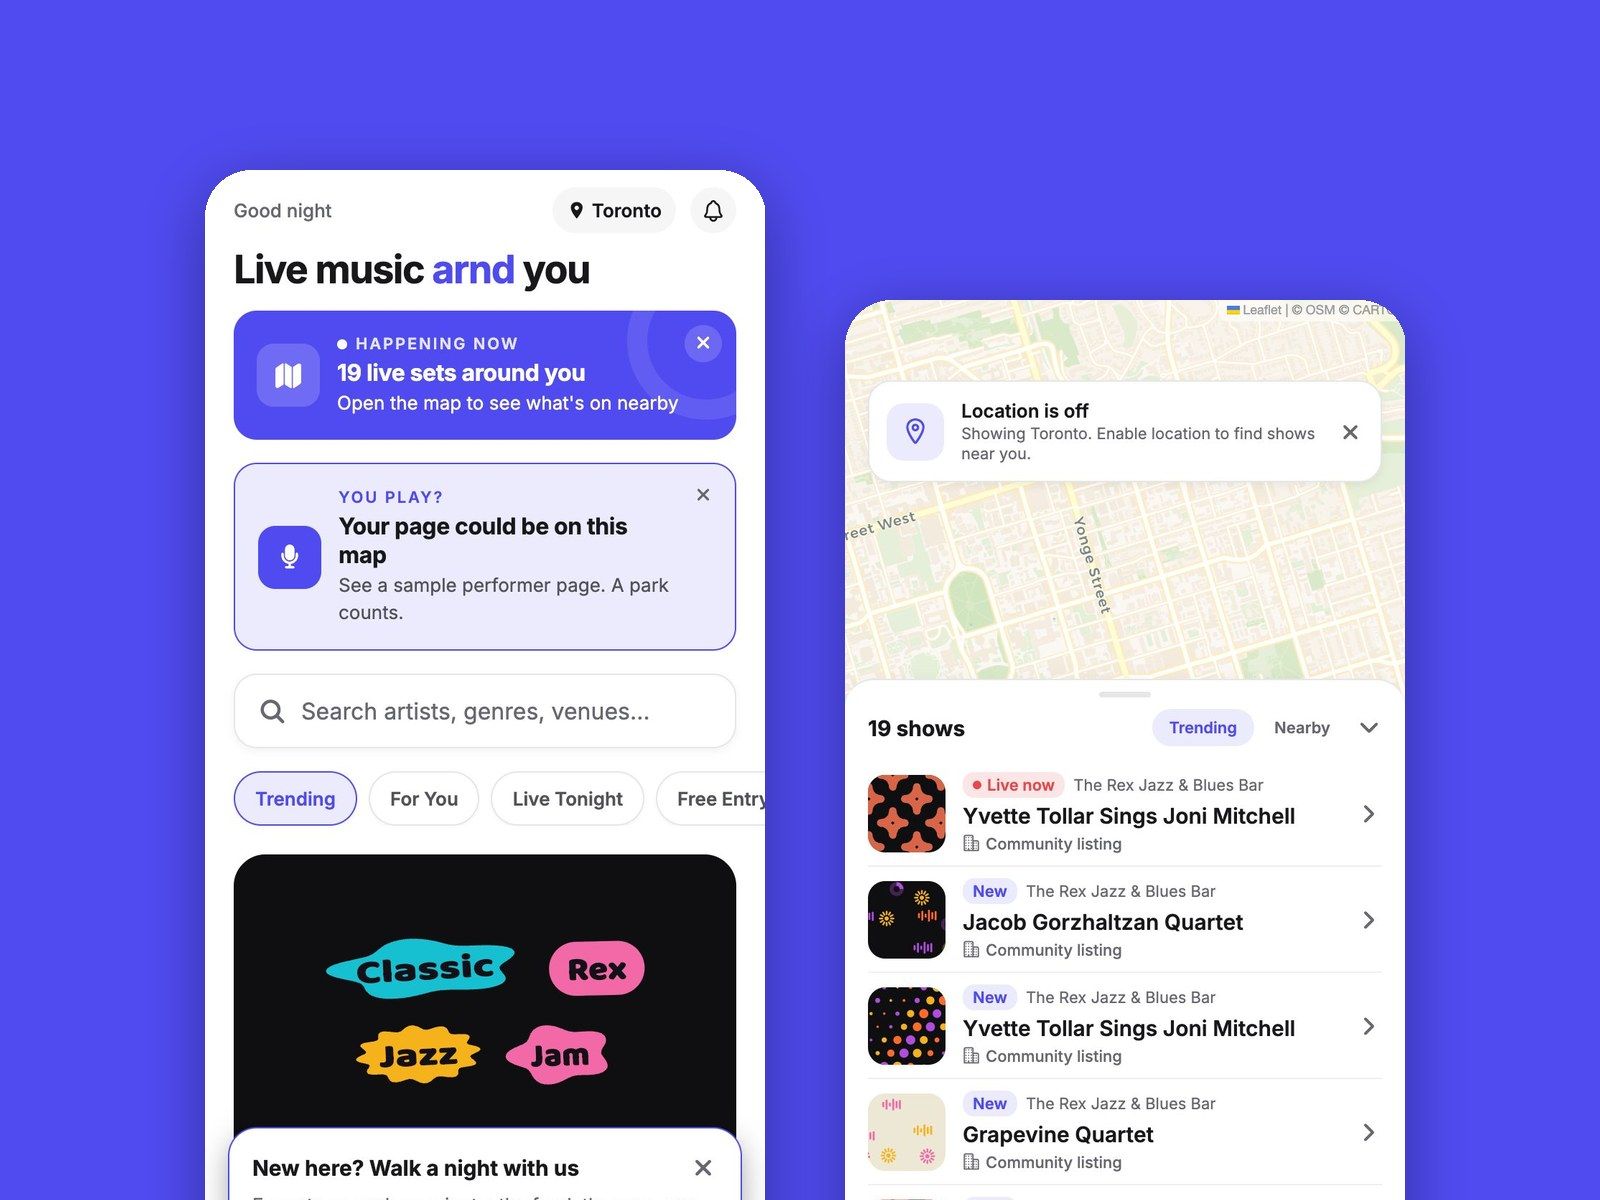
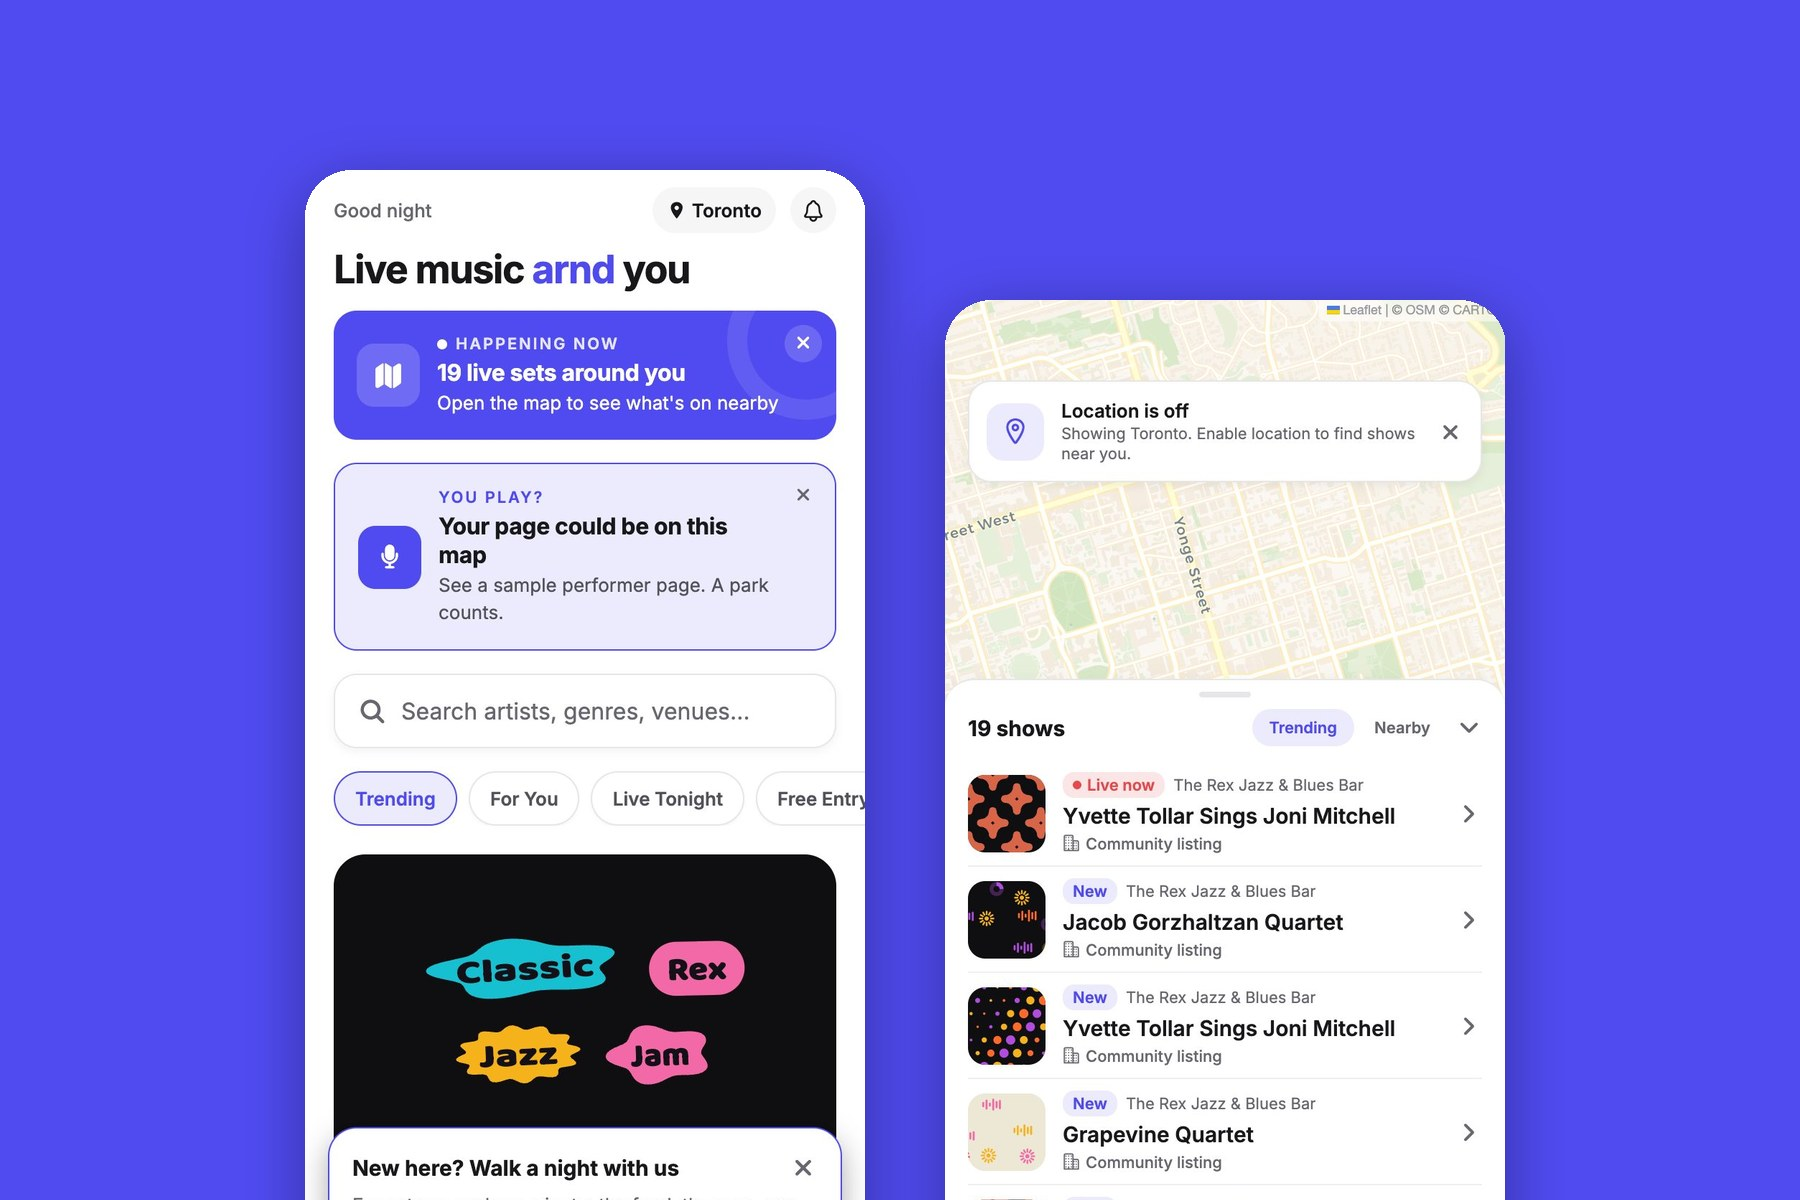
One cover system: twenty composed 3:2 canvases, nothing cropped
The card cropped everything to 4:3 and only 8 of 20 covers matched, so the
crop was eating the work: Aplos lost ~37% of its width, Orchid ~15%, Forkable
~40% of its height. Now every cover is an authored 1800x1200 canvas, the
artifact shown whole on the study's coverColor ground with consistent padding,
radius, and shadow, built by scripts/make-cover.py so the next study gets the
same treatment with one command. The card renders at aspect 3:2 to match.

Live experiments re-captured at 3:2; ARND's two-phone composition re-authored
to the new canvas; the fee-opt-in SVG rasterized so the confidential blur sits
over a real substrate. Cover rule added to docs/CONTRACTS.md. Changelog entry.

diff --git a/lib/changelog.ts b/lib/changelog.ts
@@ -13,6 +13,13 @@ export interface ChangelogEntry {
 // When you ship a change to this site, add an entry here in the same voice.
 export const changelog: ChangelogEntry[] = [
   {
+    date: "2026-09-01",
+    title: "Twenty covers, one system, nothing cropped",
+    tags: ["design"],
+    what: "Every project cover is now a composed 3:2 canvas: the artifact shown whole on its own ground color, consistent padding, soft shadow. Before this, the card's crop was quietly eating the work, some covers lost a third of their width, including two flagships. A small cover-factory script builds them, so the next case study gets the same treatment by running one command. Live experiments were re-captured at the new ratio; ARND's two-phone canvas was recomposed; the confidential flagship keeps its blur, now over a properly built substrate.",
+    why: "A cover should present the work, not sample it. Authoring every cover to the frame, instead of letting the frame crop the cover, is the difference between a gallery and a contact sheet.",
+  },
+  {
     date: "2026-08-31",
     title: "The shelf grows to nine, and two quiet studies grow up",
     tags: ["content"],

diff --git a/components/ProjectCard.tsx b/components/ProjectCard.tsx
@@ -35,7 +35,7 @@ export default function ProjectCard({
     <Magnetic strength={0.04} radius={260}>
     <Link href={`/work/${slug}`} className="group block">
       <article className="transition-transform duration-300 ease-out group-hover:-translate-y-1">
-        <div className="overflow-hidden rounded-sm aspect-[4/3]">
+        <div className="overflow-hidden rounded-sm aspect-[3/2]">
           <div
             className="cover-tinted relative w-full h-full transition-transform duration-500 ease-out group-hover:scale-[1.03]"
             style={{ backgroundColor: coverColor }}

diff --git a/scripts/make-cover.py b/scripts/make-cover.py
@@ -1,0 +1,73 @@
+#!/usr/bin/env python3
+"""Compose a case-study cover at the card's exact canvas, so CSS never crops.
+
+The cover system (see docs/CONTRACTS.md): every cover is a designed 3:2 canvas.
+The source artifact is placed WHOLE on a ground color (the study's coverColor),
+with consistent padding, rounded corners, and a soft shadow. Compositions that
+earn something custom (like ARND's two phones) can bypass this script, but they
+still author to the same 1800x1200 canvas.
+
+Usage:
+  python3 scripts/make-cover.py <source-image> <ground-hex> <out.jpg>
+
+Requires Pillow (pip install Pillow).
+"""
+
+import sys
+from PIL import Image, ImageDraw, ImageFilter
+
+CANVAS = (1800, 1200)  # 3:2
+PAD_FRAC = 0.08        # padding as a fraction of the short edge
+RADIUS = 24
+SHADOW_BLUR = 26
+SHADOW_ALPHA = 80
+
+
+def hex_to_rgb(h: str):
+    h = h.lstrip("#")
+    return tuple(int(h[i : i + 2], 16) for i in (0, 2, 4))
+
+
+def rounded(img: Image.Image, radius: int) -> Image.Image:
+    mask = Image.new("L", img.size, 0)
+    d = ImageDraw.Draw(mask)
+    d.rounded_rectangle([0, 0, *img.size], radius=radius, fill=255)
+    out = Image.new("RGBA", img.size)
+    out.paste(img, (0, 0), mask)
+    return out
+
+
+def main() -> None:
+    if len(sys.argv) != 4:
+        sys.exit(__doc__)
+    src_path, ground_hex, out_path = sys.argv[1:4]
+
+    canvas = Image.new("RGB", CANVAS, hex_to_rgb(ground_hex))
+    src = Image.open(src_path).convert("RGB")
+
+    pad = int(CANVAS[1] * PAD_FRAC)
+    box_w, box_h = CANVAS[0] - 2 * pad, CANVAS[1] - 2 * pad
+    scale = min(box_w / src.width, box_h / src.height)
+    size = (round(src.width * scale), round(src.height * scale))
+    art = rounded(src.resize(size, Image.LANCZOS), RADIUS)
+
+    x = (CANVAS[0] - size[0]) // 2
+    y = (CANVAS[1] - size[1]) // 2
+
+    shadow = Image.new("RGBA", (size[0] + SHADOW_BLUR * 4, size[1] + SHADOW_BLUR * 4), (0, 0, 0, 0))
+    d = ImageDraw.Draw(shadow)
+    d.rounded_rectangle(
+        [SHADOW_BLUR * 2, SHADOW_BLUR * 2, SHADOW_BLUR * 2 + size[0], SHADOW_BLUR * 2 + size[1]],
+        radius=RADIUS,
+        fill=(12, 12, 24, SHADOW_ALPHA),
+    )
+    shadow = shadow.filter(ImageFilter.GaussianBlur(SHADOW_BLUR))
+    canvas.paste(shadow, (x - SHADOW_BLUR * 2, y - SHADOW_BLUR * 2 + 10), shadow)
+    canvas.paste(art, (x, y), art)
+
+    canvas.save(out_path, quality=88)
+    print(f"cover: {out_path} ({CANVAS[0]}x{CANVAS[1]}, ground {ground_hex})")
+
+
+if __name__ == "__main__":
+    main()

diff --git a/docs/CONTRACTS.md b/docs/CONTRACTS.md
@@ -108,6 +108,7 @@ the thing you are about to change on the left, and do the checks on the right.
 | Brand color / core tokens | `app/globals.css` light AND dark blocks; contrast still passes |
 | Adding a small uppercase label | Use `.microlabel` (globals.css), don't hand-roll a new size/tracking combo |
 | Adding case-study media | Tall portrait captures get `<figure class="phone">` (phone-size, centered); several screens sharing one caption get `<figure class="phones">`; extra-wide art gets `<figure class="wide">`; plain figures fill the column |
+| Adding or changing a cover | Covers are authored 3:2 canvases (1800x1200), never CSS-cropped: run `python3 scripts/make-cover.py <source> <coverColor> <out>` to mat the artifact whole on the study's ground. Custom compositions (like ARND's) still author to the same canvas |
 
 ## The verify gate (before any ship)
 
